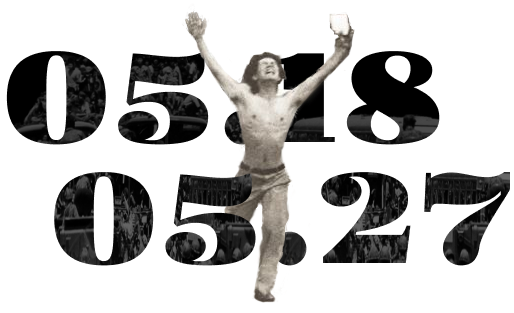
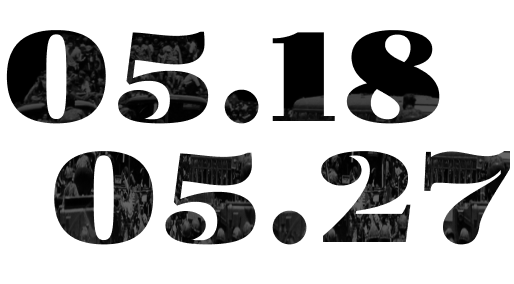
수정사항 수정 및, 오픈그래프 완성

diff --git a/src/styles/home.module.css b/src/styles/home.module.css
@@ -32,7 +32,7 @@ body {
 
 .home .home1 .repeatText {
   position: absolute;
-  top: 13%;
+  top: 15%;
   left: 50%;
   transform: translate(-50%, -50%);
   font-family: var(--font-googleGravitasOne);
@@ -43,7 +43,7 @@ body {
 
 .home .home1 .homeTitle {
   position: absolute;
-  top: 30%;
+  top: 35%;
   left: 50%;
   transform: translate(-50%, -50%);
   animation: showTitle 1s;
@@ -51,7 +51,7 @@ body {
 
 .home .home1 .homeTitle2 {
   position: absolute;
-  top: 70%;
+  top: 75%;
   left: 50%;
   transform: translate(-50%, -50%);
   animation: showTitle 1s;
@@ -60,7 +60,7 @@ body {
 .home .home1 .remembranceText {
   width: 100vw;
   position: absolute;
-  top: 50%;
+  top: 55%;
   left: 50%;
   height: 7vh;
   transform: translate(-50%, -50%);
@@ -98,7 +98,7 @@ body {
 
 .home .home1 .repeatText2 {
   position: absolute;
-  top: 86%;
+  top: 90%;
   left: 50%;
   transform: translate(-50%, -50%);
   font-family: var(--font-googleGravitasOne);
@@ -439,14 +439,14 @@ body {
 @keyframes showLeft {
   from {
     position: absolute;
-    top: 13%;
+    top: 15%;
     left: 200%;
     transform: translate(-50%, -50%);
   }
 
   to {
     position: absolute;
-    top: 13%;
+    top: 15%;
     left: 50%;
     transform: translate(-50%, -50%);
   }
@@ -455,14 +455,14 @@ body {
 @keyframes showRight {
   from {
     position: absolute;
-    top: 86%;
+    top: 90%;
     left: -200%;
     transform: translate(-50%, -50%);
   }
 
   to {
     position: absolute;
-    top: 86%;
+    top: 90%;
     left: 50%;
     transform: translate(-50%, -50%);
   }

diff --git a/public/index.html b/public/index.html
@@ -5,6 +5,31 @@
     <link rel="icon" href="/favicon.ico" />
     <meta name="viewport" content="width=device-width, initial-scale=1" />
     <meta name="theme-color" content="#000000" />
+
+    <!--Open Graph-->
+    <!--http://ogp.me/-->
+    <meta property="og:type" content="website" />
+    <meta property="og:site_name" content="5.18" />
+    <meta property="og:title" content="5.18 교육자료" />
+    <meta
+      property="og:description"
+      content="5.18 웹 교육자료로 전라도 학생 5.18 민주화 운동 교육을 목적으로 제작되었습니다."
+    />
+    <meta property="og:image" content="./images/starbucks_seo.jpg" />
+    <meta property="og:url" content="https://starbucks.co.kr" />
+
+    <!--Twitter Card-->
+    <!--https://developer.twitter.com/en/docs/twitter-for-websites/cards/guides/getting-started-->
+    <meta property="twitter:card" content="5.18" />
+    <meta property="twitter:site" content="5.18" />
+    <meta property="twitter:title" content="5.18 교육자료" />
+    <meta
+      property="twitter:description"
+      content="5.18 웹 교육자료로 전라도 학생 5.18 민주화 운동 교육을 목적으로 제작되었습니다."
+    />
+    <meta property="twitter:image" content="../src/images/logo.png" />
+    <meta property="twitter:url" content="https://518-exercise.vercel.app/" />
+
     <title>518 교육 자료</title>
   </head>
   <body>

diff --git a/src/styles/navbar.module.css b/src/styles/navbar.module.css
@@ -47,7 +47,7 @@ a {
 }
 
 .navbar .menuList {
-    width: 350px;
+    width: 250px;
     list-style: none;
     margin: 0;
     padding: 0;
